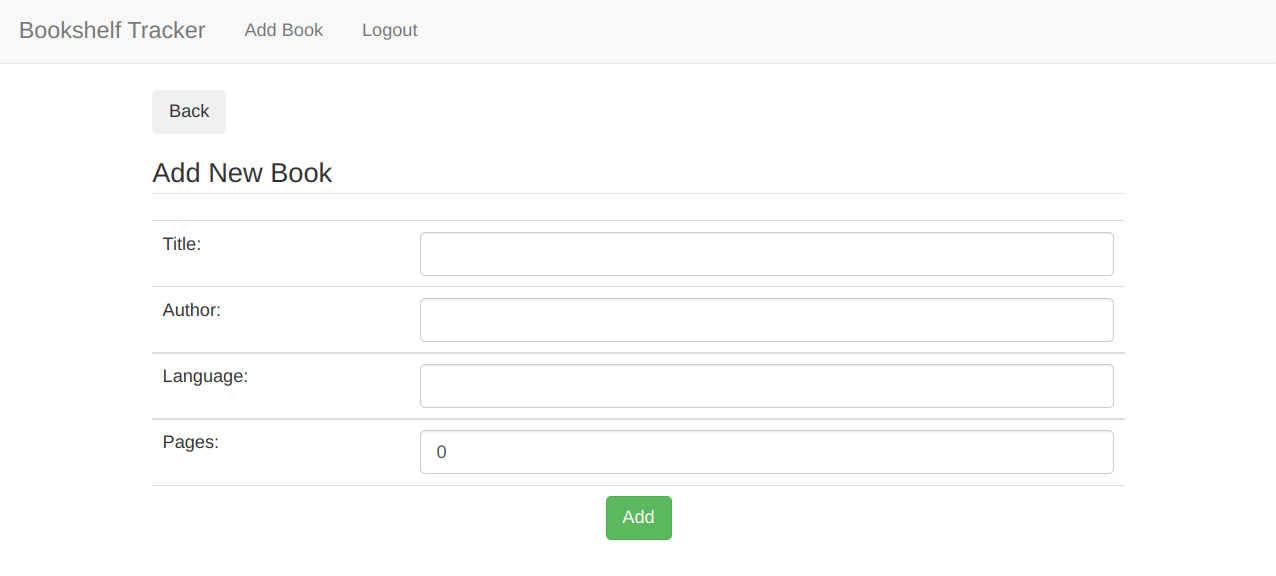
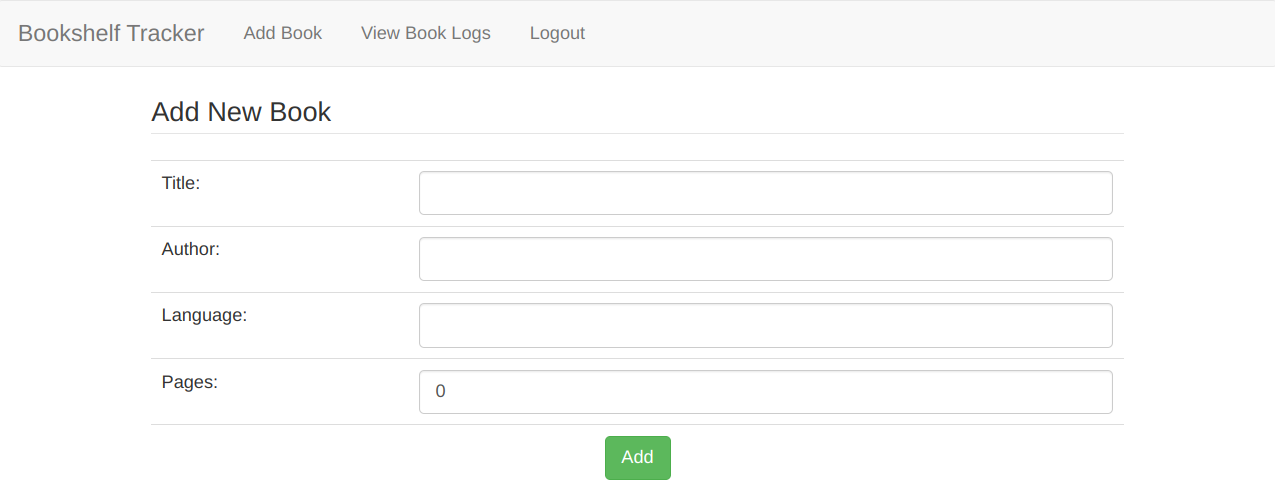
update form buttons and add book title, author to edit book page

diff --git a/src/main/resources/templates/logs/add-log.html b/src/main/resources/templates/logs/add-log.html
@@ -17,7 +17,10 @@
 			<input type="hidden" th:field="*{author}" id="author">
 			<input type="hidden" th:field="*{language}" id="language">
 			<input type="hidden" th:field="*{pages}" id="pages">
-				<tbody>			
+				<tbody>	
+					<tr>
+						<td th:text="*{title + ' by ' + author}" colwidth="2"></td>
+					</tr>
 					<tr>
 					<div class="form-group input" th:class="${#fields.hasErrors('start')} ? 'control-group input error'">
 						<td><p>Start:</p></td>
@@ -37,14 +40,7 @@
 					</div>
 					</tr>
 					<tr>
-						<td><button type="submit">Add Log</button></td>
-						<td>
-							<div class="form-group input">
-								<form th:action="@{/view/{id}(id=${book.id})}" th:object="${book}" method="get">
-									<button type="submit">Cancel</button>
-								</form>
-							</div>
-						</td>
+						<td style="text-align:center" colspan="2"><button type="submit" class="btn btn-success">Add Log</button></td>
 					</tr>
 				</tbody>
 				</form>

diff --git a/src/main/resources/templates/books/edit-book.html b/src/main/resources/templates/books/edit-book.html
@@ -50,14 +50,7 @@
 					</div>
 					</tr>
 					<tr>
-						<td><button type="submit" class="btn btn-success">Update</button></td>
-						<td>
-							<div class="form-group">
-								<form action="/">
-									<button type="submit" class="btn">Cancel</button>
-								</form>
-							</div>
-						</td>
+						<td style="text-align:center" colspan="2"><button type="submit" class="btn btn-success">Update</button></td>
 					</tr>
 				</tbody>
 			</form>

diff --git a/src/main/resources/templates/books/add-book.html b/src/main/resources/templates/books/add-book.html
@@ -9,11 +9,6 @@
 	<div class="row">
 		<div class="col">
 			<table class="table">
-			<div class="form-group input">
-				<form action="/">
-					<button type="submit" class="btn">Back</button>
-				</form>
-			</div>
 			<form th:action="@{/save}" th:object="${book}" method="post">
 			<input type="hidden" th:field="*{username}" id="username">
 			<legend>Add New Book</legend>
